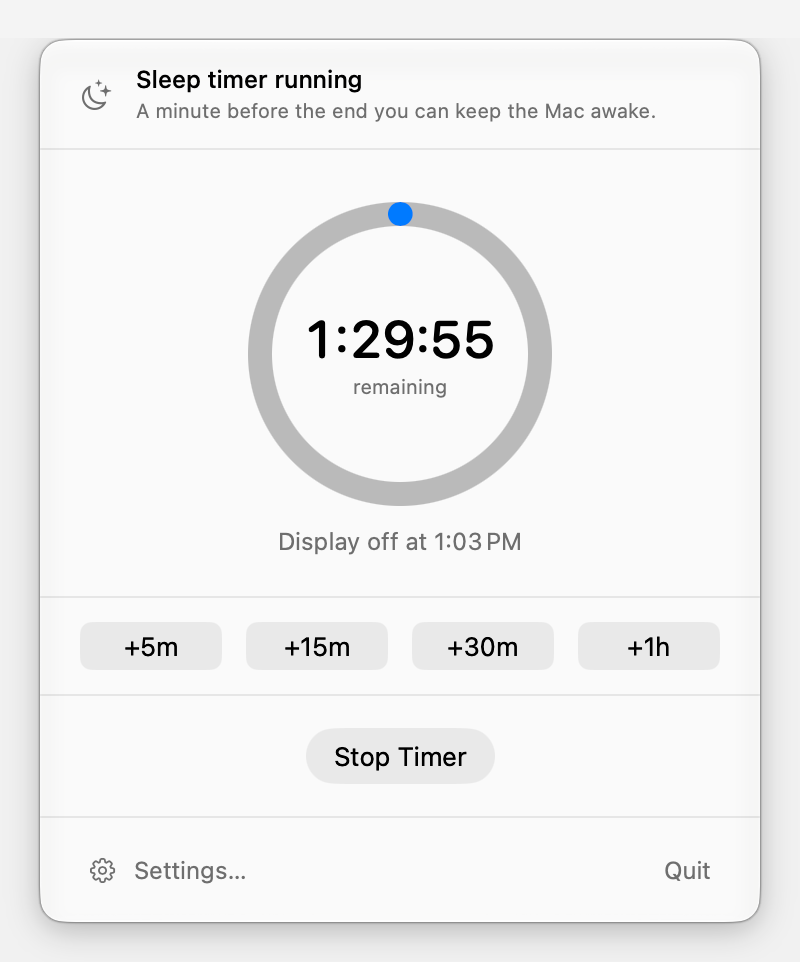
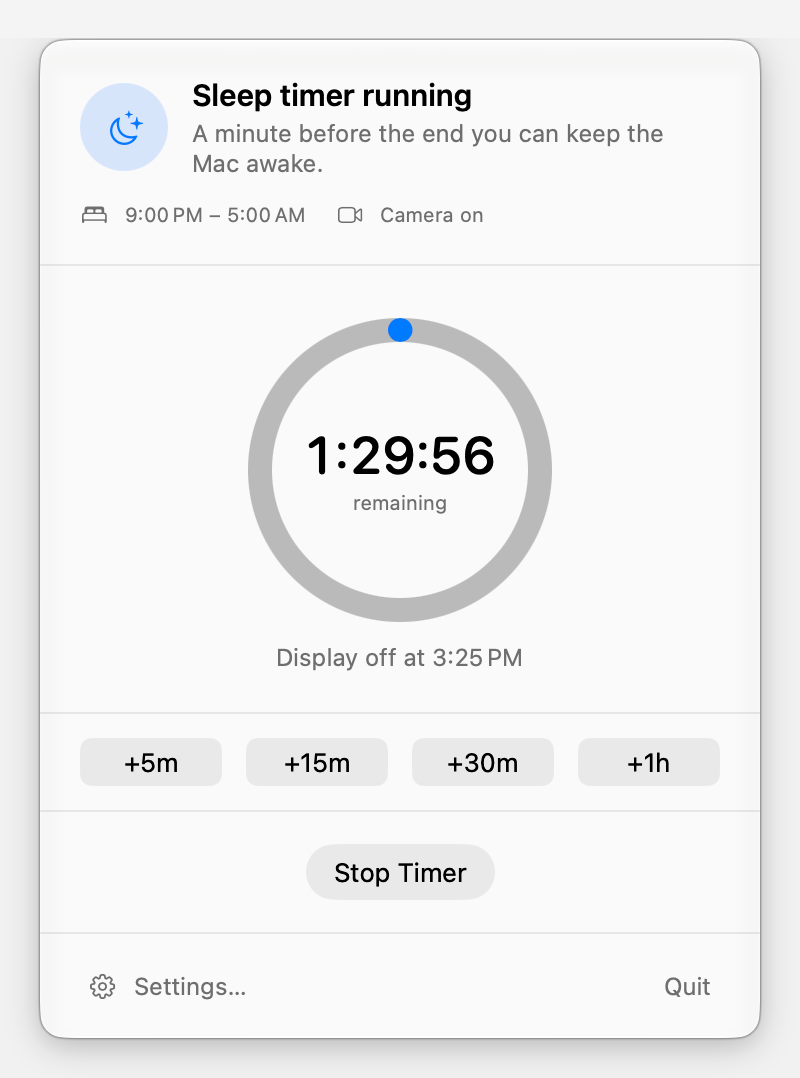
Lead the panel with the night watch
The night watch heads the panel as a card with its bedtime and camera
state; the timer becomes a compact "Or sleep after a set time" block.
Only one button is the default action: Turn On Night Watch while the
watch is off, Start Timer otherwise. Settings footers use panelSecondary,
4.95:1 in light where the system footer measured 3.95:1.

diff --git a/Sources/WatchMeSleepCore/ContentView.swift b/Sources/WatchMeSleepCore/ContentView.swift
@@ -3,6 +3,7 @@ import AppKit
 
 public struct ContentView: View {
     @StateObject private var timerManager = TimerManager.shared
+    @ObservedObject private var supervisor = SleepSupervisor.shared
     @State private var selectedHours: Double = 1.5
 
     public init() {}
@@ -10,15 +11,17 @@ public struct ContentView: View {
     public var body: some View {
         VStack(spacing: 0) {
             NightWatchStatusView()
-                .padding(.horizontal, 16)
-                .padding(.vertical, 12)
+                .padding(.horizontal, 20)
+                .padding(.vertical, 18)
 
             Divider()
             Group {
                 if timerManager.isTimerActive {
                     ActiveTimerView()
                 } else {
-                    InactiveTimerView(selectedHours: $selectedHours)
+                    // "Turn On Night Watch" is the default action while the watch is off.
+                    InactiveTimerView(selectedHours: $selectedHours,
+                                      isDefaultAction: supervisor.status != .off)
                 }
             }
             .animation(.easeInOut(duration: 0.18), value: timerManager.isTimerActive)
@@ -75,38 +78,25 @@ struct CommonSettingsView: View {
 
 struct InactiveTimerView: View {
     @Binding var selectedHours: Double
+    let isDefaultAction: Bool
 
     private let range: ClosedRange<Double> = 0.25...12
 
     var body: some View {
-        VStack(spacing: 0) {
-            // Time display
-            VStack(spacing: 12) {
+        VStack(alignment: .leading, spacing: 12) {
+            HStack(alignment: .firstTextBaseline) {
+                Text("Or sleep after a set time")
+                    .font(.headline)
+                Spacer()
                 Text(DurationFormat.compact(hours: selectedHours))
-                    .font(.system(size: 48, weight: .regular, design: .rounded))
-                    .foregroundStyle(.primary)
-
-                durationSlider
-                    .labelsHidden()
-                    .accessibilityValue(DurationFormat.words(hours: selectedHours))
-                    .controlSize(.small)
-
-                HStack {
-                    Text(DurationFormat.compact(hours: range.lowerBound))
-                    Spacer()
-                    Text(DurationFormat.compact(hours: range.upperBound))
-                }
-                .font(.caption)
-                .foregroundStyle(Color.panelSecondary)
-                .accessibilityHidden(true)
+                    .font(.title3.weight(.medium))
+                    .monospacedDigit()
             }
-            .padding(20)
-            .padding(.top, 12)
-
-            Divider()
-
-            // Presets
-            Grid(horizontalSpacing: 12, verticalSpacing: 12) {
+            durationSlider
+                .labelsHidden()
+                .accessibilityValue(DurationFormat.words(hours: selectedHours))
+                .controlSize(.small)
+            Grid(horizontalSpacing: 8, verticalSpacing: 8) {
                 GridRow {
                     ForEach(TimerManager.presetHours.prefix(4), id: \.self) { hours in
                         PresetButton(hours: hours, selectedHours: $selectedHours)
@@ -118,22 +108,16 @@ struct InactiveTimerView: View {
                     }
                 }
             }
-            .padding(.horizontal, 20)
-            .padding(.vertical, 12)
-
-            Divider()
-
-            // Start button
             Button("Start Timer") {
                 TimerManager.shared.startTimer(hours: selectedHours)
             }
-            .buttonStyle(.borderedProminent)
+            .panelDefaultAction(isDefaultAction)
             .controlSize(.large)
-            .keyboardShortcut(.defaultAction)
+            .frame(maxWidth: .infinity)
             .accessibilityIdentifier("startTimer")
-            .padding(.horizontal, 20)
-            .padding(.vertical, 16)
         }
+        .padding(.horizontal, 20)
+        .padding(.vertical, 16)
     }
 
     /// Tick marks on whole hours only (HIG: tick marks add clarity). macOS 26

diff --git a/Sources/WatchMeSleepCore/NightWatchViews.swift b/Sources/WatchMeSleepCore/NightWatchViews.swift
@@ -6,29 +6,44 @@ struct NightWatchStatusView: View {
     @ObservedObject private var supervisor = SleepSupervisor.shared
 
     var body: some View {
-        HStack(alignment: .center, spacing: 10) {
-            // Decorative: the title already says it.
-            Image(systemName: icon)
-                .font(.title3)
-                .foregroundStyle(Color.panelSecondary)
-                .frame(width: 22)
+        let isOff = supervisor.status == .off
+        VStack(alignment: .leading, spacing: 12) {
+            HStack(alignment: .center, spacing: 12) {
+                ZStack {
+                    Circle().fill(Color.accentColor.opacity(isOff ? 0.08 : 0.16))
+                    Image(systemName: icon)
+                        .font(.title2)
+                        .foregroundStyle(isOff ? Color.panelSecondary : Color.accentColor)
+                }
+                .frame(width: 44, height: 44)
                 .accessibilityHidden(true)
-            VStack(alignment: .leading, spacing: 2) {
-                Text(supervisor.statusTitle)
-                    .font(.callout.weight(.medium))
-                Text(detail)
-                    .font(.caption)
-                    .foregroundStyle(Color.panelSecondary)
-                    .fixedSize(horizontal: false, vertical: true)
+                VStack(alignment: .leading, spacing: 2) {
+                    Text(supervisor.statusTitle)
+                        .font(.title3.weight(.semibold))
+                    Text(detail)
+                        .font(.callout)
+                        .foregroundStyle(Color.panelSecondary)
+                        .fixedSize(horizontal: false, vertical: true)
+                }
+                .accessibilityElement(children: .combine)
+                .accessibilityIdentifier("nightWatchStatus")
+                Spacer(minLength: 0)
             }
-            .accessibilityElement(children: .combine)
-            .accessibilityIdentifier("nightWatchStatus")
-            Spacer(minLength: 0)
-            // The way out of "off" is right here, not a trip to Settings (UX-12).
-            if supervisor.status == .off {
-                Button("Turn On") { supervisor.isEnabled = true }
-                    .controlSize(.regular)
+            if isOff {
+                Button("Turn On Night Watch") { supervisor.isEnabled = true }
+                    .panelDefaultAction(true)
+                    .controlSize(.large)
+                    .frame(maxWidth: .infinity)
                     .accessibilityIdentifier("turnOnNightWatch")
+            } else {
+                HStack(spacing: 14) {
+                    Label(supervisor.bedtimeRangeText, systemImage: "bed.double")
+                    if supervisor.cameraUsable {
+                        Label("Camera on", systemImage: "video")
+                    }
+                }
+                .font(.caption)
+                .foregroundStyle(Color.panelSecondary)
             }
         }
     }
@@ -45,7 +60,7 @@ struct NightWatchStatusView: View {
     private var detail: String {
         switch supervisor.status {
         case .off:
-            return "It sleeps the Mac once you fall asleep."
+            return "Sleeps the Mac once you fall asleep in front of a film or music."
         case .outsideHours:
             return "Until then, set a timer below."
         case .inUse:

diff --git a/Sources/WatchMeSleepCore/PanelStyle.swift b/Sources/WatchMeSleepCore/PanelStyle.swift
@@ -4,6 +4,8 @@ extension Color {
     /// Secondary text on the glass panels. The system `.secondary` measured
     /// 2.91:1 in light and 3.15:1 in dark there (UX-01), under the 4.5:1 small
     /// text needs; this keeps the softer look at a readable contrast.
+    /// The Settings footers use it too: the system form footer measured 3.95:1
+    /// in light, this 4.95:1.
     static let panelSecondary = Color.primary.opacity(0.66)
 }
 
@@ -13,5 +15,15 @@ extension View {
     /// WCAG 2.5.3).
     func durationAccessibility(visible: String, spoken: String) -> some View {
         accessibilityLabel(spoken).accessibilityInputLabels([Text(visible), Text(spoken)])
+    }
+
+    /// The panel's default action: prominent, and Return presses it.
+    @ViewBuilder
+    func panelDefaultAction(_ isDefault: Bool) -> some View {
+        if isDefault {
+            buttonStyle(.borderedProminent).keyboardShortcut(.defaultAction)
+        } else {
+            self
+        }
     }
 }

diff --git a/Sources/WatchMeSleepCore/SettingsView.swift b/Sources/WatchMeSleepCore/SettingsView.swift
@@ -72,7 +72,7 @@ public struct SettingsView: View {
         } header: {
             Text("Night watch")
         } footer: {
-            Text(nightWatchFooter)
+            Text(nightWatchFooter).foregroundStyle(Color.panelSecondary)
         }
     }
 
@@ -138,6 +138,7 @@ public struct SettingsView: View {
         } footer: {
             Text(launchManager.errorMessage.map { "Couldn't change this: \($0)" }
                  ?? "Start Watch Me While I Fall Asleep automatically when you log in to your Mac.")
+                .foregroundStyle(Color.panelSecondary)
         }
     }
 
@@ -158,6 +159,7 @@ public struct SettingsView: View {
             Text("Updates")
         } footer: {
             Text("Checks once a day and installs a new version when you choose to.")
+                .foregroundStyle(Color.panelSecondary)
         }
     }
 

diff --git a/Sources/WatchMeSleepCore/SleepSupervisor.swift b/Sources/WatchMeSleepCore/SleepSupervisor.swift
@@ -258,7 +258,8 @@ public final class SleepSupervisor: ObservableObject {
         Date(timeIntervalSinceReferenceDate: (date.timeIntervalSinceReferenceDate / 60).rounded(.up) * 60)
     }
 
-    private var cameraUsable: Bool {
+    /// The camera will really look: chosen, and access given.
+    var cameraUsable: Bool {
         usesCamera && cameraAuthorized()
     }
 
@@ -326,6 +327,9 @@ public final class SleepSupervisor: ObservableObject {
 
     /// "10:30 PM", for the status texts.
     public var bedtimeStartText: String { BedtimeFormat.time(bedtimeStart) }
+
+    /// "10:30 PM – 6:00 AM", for the panel.
+    var bedtimeRangeText: String { "\(bedtimeStartText) – \(BedtimeFormat.time(bedtimeEnd))" }
 
     /// The status in one line: the panel's status title and the menu bar
     /// tooltip read the same words (UX-10).
